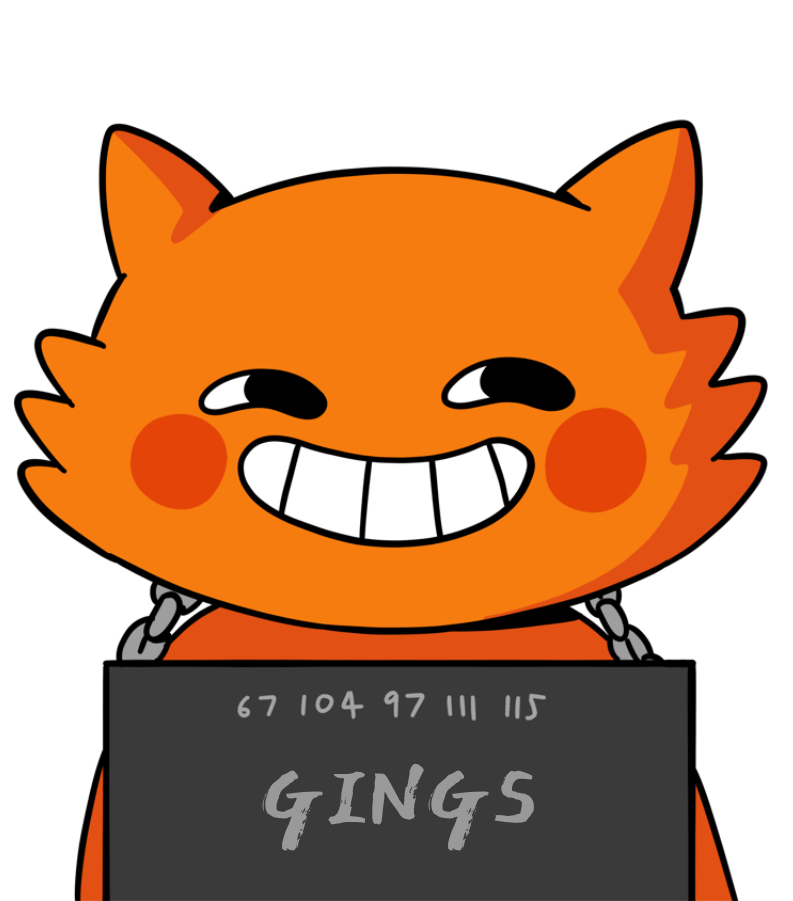
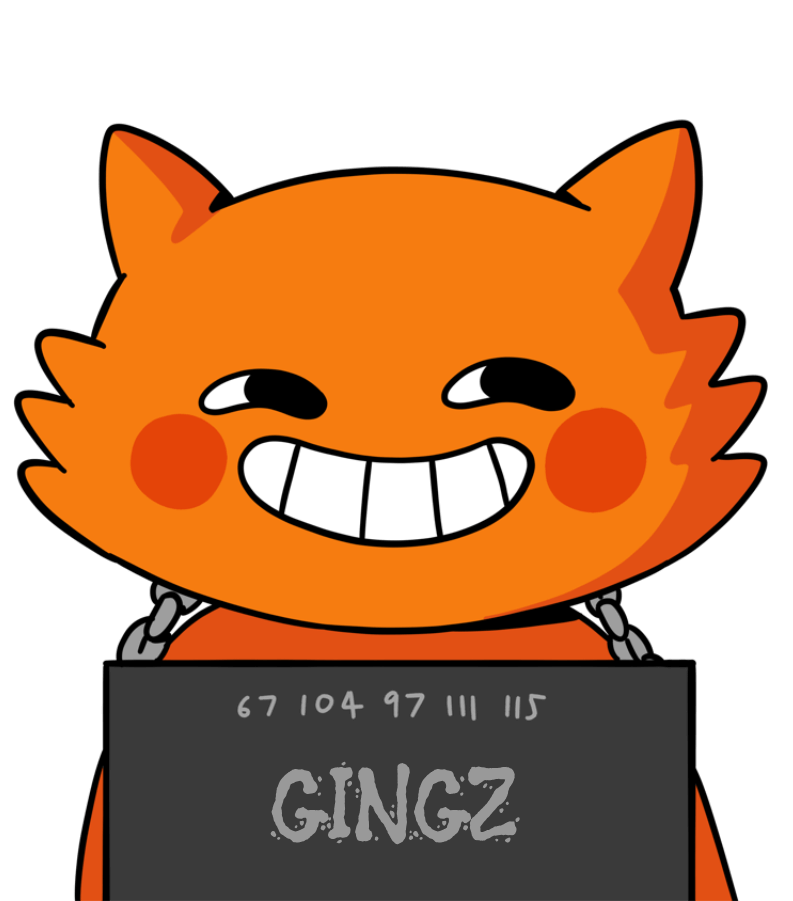
1

Changed region(s): [[0.3329, 0.8391, 0.6961, 0.9634]]

diff --git a/index.html b/index.html
@@ -3,9 +3,9 @@
 
 <head>
   <meta charset="utf-8">
-  <title>The Ginger Cat | $GINGS</title>
+  <title>The Ginger Cat | $GINGZ</title>
   <meta content="width=device-width, initial-scale=1" name="viewport">
-  <meta content="The Ginger Cat" name="$GINGS">
+  <meta content="The Ginger Cat" name="$GINGZ">
   <link href="css/normalize.css" rel="stylesheet" type="text/css">
   <link href="css/style.css" rel="stylesheet" type="text/css">
   <link href="css/bstyle.css" rel="stylesheet" type="text/css">
@@ -28,7 +28,7 @@ font-family: 'Super Squad';
   <div class="section_hero">
     <a data-w-id="4e8d95c4-39d8-cf17-89f1-7575d3437792"
       style="-webkit-transform:translate3d(0, 0, 0) scale3d(1, 1, 1) rotateX(0) rotateY(0) rotateZ(-4deg) skew(0, 0);-moz-transform:translate3d(0, 0, 0) scale3d(1, 1, 1) rotateX(0) rotateY(0) rotateZ(-4deg) skew(0, 0);-ms-transform:translate3d(0, 0, 0) scale3d(1, 1, 1) rotateX(0) rotateY(0) rotateZ(-4deg) skew(0, 0);transform:translate3d(0, 0, 0) scale3d(1, 1, 1) rotateX(0) rotateY(0) rotateZ(-4deg) skew(0, 0)"
-      href="https://pump.fun/1yKxjGV5UkdLRSD4AsqTGjJqRrGnPHj3BHpNn3Uyump" class="buy w-button">BUY $GINGS</a>
+      href="https://pump.fun/71xNJiMfwncFj5ZG8BUVXZdNgMtH9UBevLS4XVJrump" class="buy w-button">BUY $GINGZ</a>
     <img src="images/liane_left.svg" loading="lazy" alt="" class="liane_left">
     <img src="images/liane_right.svg" loading="lazy" alt="" class="laine_right">
     <div class="grass_hero">
@@ -50,15 +50,15 @@ font-family: 'Super Squad';
           dominant-baseline: central;
         }
       </style>
-      <text class="rico-text" x="50%" y="35%">GINGS</text>
+      <text class="rico-text" x="50%" y="35%">GINGZ</text>
     </svg>
 
 
     <img src="images/rico-h.png" loading="lazy" sizes="100vw" srcset="images/rico-h.png 500w, images/rico-h.png 793w"
       alt="" class="chara_hero">
     <div class="links_hero">
-      <a href="https://t.me/gingssolfun" class="tg w-button" target="blank"></a>
-      <a href="https://x.com/gingssolfun
+      <a href="https://t.me/gingzsolfun" class="tg w-button" target="blank"></a>
+      <a href="https://x.com/gingzsolfun
 " class="x w-button" target="blank"></a>
 
     </div>
@@ -66,8 +66,8 @@ font-family: 'Super Squad';
   <div class="separator_ca">
     <div class="block_ca">
       <div class="ca_in">
-        <div class="ca">1yKxjGV5UkdLRSD4AsqTGjJqRrGnPHj3BHpNn3Uyump</div>
-        <div class="ca_mobile">1yKxjGV5UkdLRSD4AsqTGjJqRrGnPHj3BHpNn3Uyump</div>
+        <div class="ca">71xNJiMfwncFj5ZG8BUVXZdNgMtH9UBevLS4XVJrump</div>
+        <div class="ca_mobile">71xNJiMfwncFj5ZG8BUVXZdNgMtH9UBevLS4XVJrump</div>
         <a href="#" class="copy w-button">COPY</a>
       </div>
     </div>
@@ -80,7 +80,7 @@ font-family: 'Super Squad';
   </div>
   <div class="section_about_bottom">
     <div class="block_para">
-      <p class="paragraph">Yeah, I’m GINGS the cat. The troublemaker, the chaos starter, the one who keeps things
+      <p class="paragraph">Yeah, I’m GINGZ the cat. The troublemaker, the chaos starter, the one who keeps things
         interesting. I don’t just cause a
         scene—I own it. But don’t let the mischief fool you—I’ve got big plans, and they’re just getting started. You’re
         here
@@ -97,7 +97,7 @@ font-family: 'Super Squad';
     <div class="block_tokenomics">
       <div class="tokenomics_in">
         <div class="tokenomics_details">
-          <div class="h2">TOTAL SUPPLY = 1 BILLION $GINGS</div>
+          <div class="h2">TOTAL SUPPLY = 1 BILLION $GINGZ</div>
         </div>
         <div class="tokenomics_details">
           <div class="h2">MINT = REVOKED</div>
@@ -113,10 +113,10 @@ font-family: 'Super Squad';
       class="chara_diamond">
   </div>
   <div class="section_join">
-    <div class="h1 h1_3">GINGS THE<br>CHAOTIC CAT</div>
+    <div class="h1 h1_3">GINGZ THE<br>CHAOTIC CAT</div>
     <div class="block_links">
-      <a href="https://t.me/gingssolfun" class="tg w-button" target="blank"></a>
-      <a href="https://x.com/gingssolfun" class="x w-button" target="blank"></a>
+      <a href="https://t.me/gingzsolfun" class="tg w-button" target="blank"></a>
+      <a href="https://x.com/gingzsolfun" class="x w-button" target="blank"></a>
 
     </div><img src="images/rico.png" loading="lazy" sizes="(max-width: 479px) 90vw, 410.7749938964844px"
       srcset="images/rico.png 500w, images/rico.png 800w" alt="" class="chara_footer">
